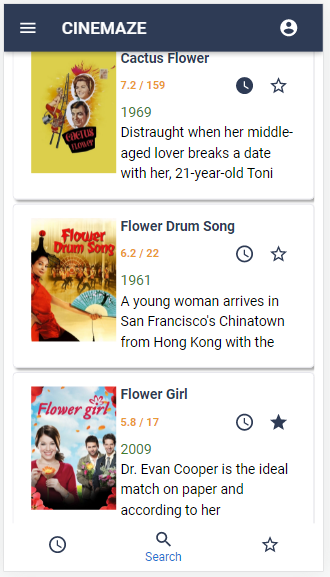
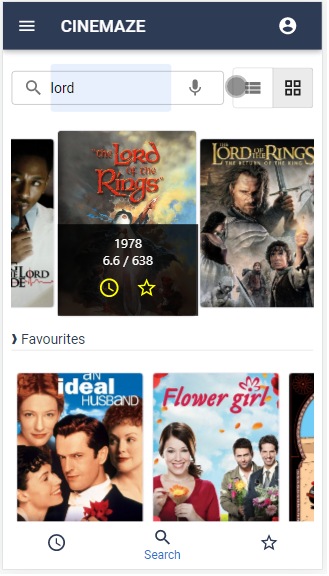
readme file modifed

diff --git a/src/pages/homepage/HomePage.component.tsx b/src/pages/homepage/HomePage.component.tsx
@@ -68,10 +68,14 @@ const HomePage: React.FunctionComponent = () => {
             {isLoading && <LoadingSpinner asOverlay />}
             <MovieCollection movies={results} />
           </SectionSearchStyled>
-          <Typography className={classes.sectionTitle}>Favourites</Typography>
+          <Typography className={classes.sectionTitle}>
+            &#10097; Favourites
+          </Typography>
           <Divider />
           <MovieCollection movies={favouriteList} />
-          <Typography className={classes.sectionTitle}>Watch later</Typography>
+          <Typography className={classes.sectionTitle}>
+            &#10097; Watch later
+          </Typography>
           <Divider />
           <MovieCollection movies={watchLaterList} />
         </React.Fragment>

diff --git a/src/components/movie-list/MovieItem.component.tsx b/src/components/movie-list/MovieItem.component.tsx
@@ -31,11 +31,12 @@ const useStyles = makeStyles({
     fontWeight: "bold",
   },
   poster: {
-    width: "100px",
-    height: "145px",
-    minWidth: "100px",
-    minHeight: "145px",
+    width: "110px",
+    height: "155px",
+    minWidth: "110px",
+    minHeight: "155px",
     margin: "0 5px",
+    borderRadius: "7px",
   },
   releaseDate: {
     color: "#41802e",

diff --git a/src/redux/ui/ui-reducer.ts b/src/redux/ui/ui-reducer.ts
@@ -7,7 +7,7 @@ import {
 } from "./ui-types";
 
 const INITIAL_STATE: IUIState = {
-  currentViewStyle: EUITypes.VIEW_STYLE_LISTVIEW,
+  currentViewStyle: EUITypes.VIEW_STYLE_THUMBNAIL,
   currentNavTab: EUITypes.NAV_TAB_SEARCH,
   inputSearchValue: "",
   modalVisibility: false,

diff --git a/src/components/App/App.tsx b/src/components/App/App.tsx
@@ -13,7 +13,7 @@ import NavBottom from "../nav-bottom/NavBottom.component";
 const GlobalStyle = createGlobalStyle`
 
 body {
-  padding: 0;
+  padding: 0;  
 }
 
 a {

diff --git a/README.md b/README.md
@@ -15,9 +15,11 @@ This app powered by : [themoviedb.org](https://api.themoviedb.org)
 
 ## Demo snapshots
 
+<div align="center">
 ![Demo snapshot #1](./public/demo3.png)
-![Demo snapshot #2](./public/demo2.png)
+![Demo snapshot #2](./public/demo4.png)
 ![Demo snapshot #3](./public/demo1.png)
+</div>
 
 ## Getting Started
 
